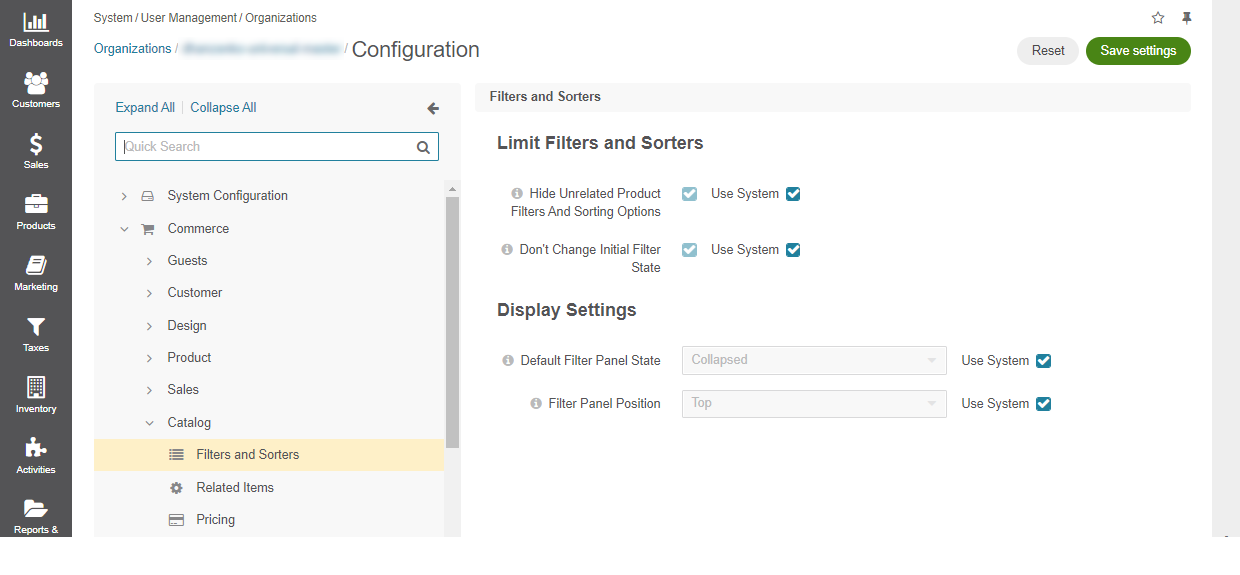
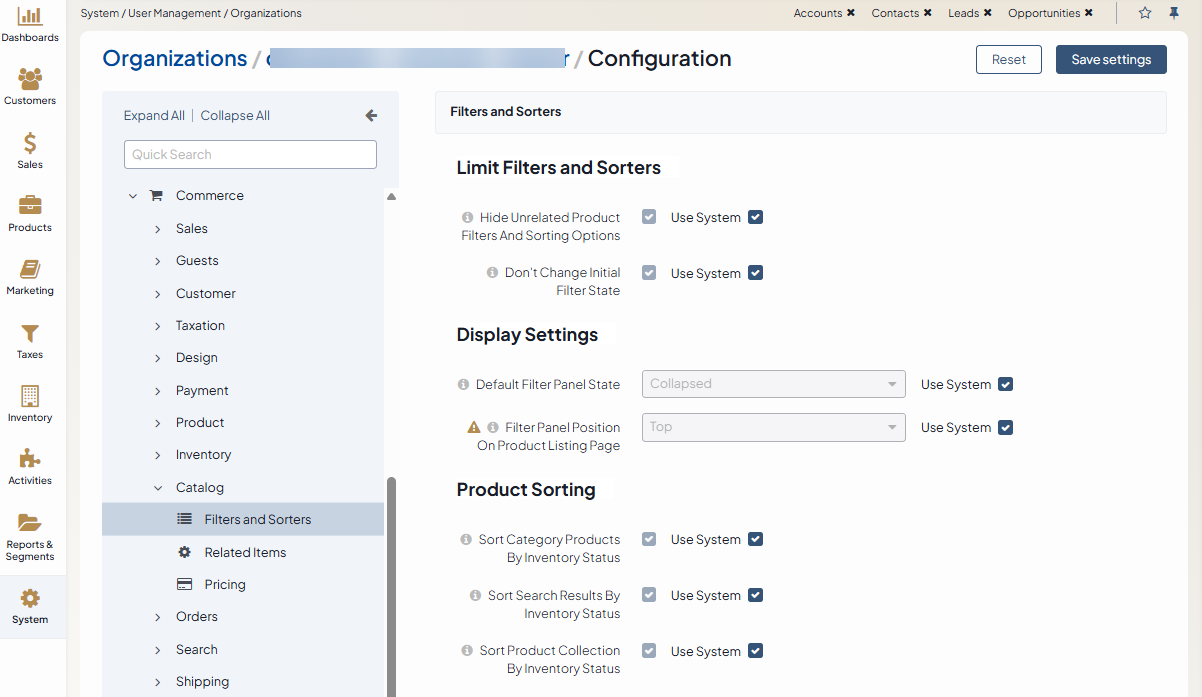
DOC-2393: Added user documentation to cover the Sort Products by Inventory Status feature (#41906)

diff --git a/user/back-office/system/user-management/organizations/org-configuration/commerce/catalog/organization-filters-sorters.rst b/user/back-office/system/user-management/organizations/org-configuration/commerce/catalog/organization-filters-sorters.rst
@@ -43,8 +43,39 @@ To configure filters and sorting options per organization:
 
    .. hint:: To specify how to display the multi-select filter options, refer to the :ref:`theme-related settings <configuration--commerce--design--theme>`.
 
+6. In the **Product Sorting** section, configure the options that enable you to override the default product sorting behavior in the storefront, which is typically based on a product sort order (if specified) and by relevance score.
 
-6. Click **Save Settings**.
+    .. note:: The product sorting feature is only available as of OroCommerce Enterprise version 6.1.2.
+
+    .. hint:: Before enabling the options, ensure to:
+
+        1. Define the options for the :ref:`inventory_status <products--product-attributes>` product attribute under the Products > Product Attributes back-office menu. Drag and drop statuses to arrange them by priority (e.g., *In Stock, Out Of Stock, Discontinued*). Products with higher-priority statuses will be displayed first. Please note that the inventory_status attribute is a system product attribute, so only a system administrator of the global organization can edit it.
+
+            .. image:: /user/img/system/config_commerce/catalog/inventory-status-attribute.png
+               :alt: The details page of the Inventory status product attribute
+
+        2. Check the :ref:`visibility of the inventory statuses <configuration--guide--commerce--configuration--inventory--allowed-statuses>` under System > Configuration > Commerce > Inventory > Allowed Statuses to ensure that products with the specified status can be visible in the storefront.
+
+            .. image:: /user/img/system/config_commerce/catalog/inventory-status-visibility-config.png
+               :alt: The config page of the Allowed Statuses commerce system menu
+
+* **Sort Category Products by Inventory Status** --- When enabled, the items on product listing (master catalog category) pages in the storefront will be sorted by their inventory status, as configured under the Products > Product Attributes back-office menu. Products with higher-priority statuses (e.g., *In Stock*) will appear first, followed by others in the defined order. Within the same inventory status group, products are further sorted by the sort order number assigned to them in the category.
+
+.. image:: /user/img/system/config_commerce/catalog/category-products-sorting.png
+   :alt: The master catalog category details page with the products with different inventory statuses and sort order, and the storefront page that reflects the enabled sorting behavior
+
+* **Sort Search Results by Inventory Status** --- When enabled, the items on the search results page in the storefront will be sorted by their inventory status, as configured under the Products > Product Attributes back-office menu. Products with higher-priority statuses (e.g., *In Stock*) will appear first, followed by others in the defined order.
+
+.. image:: /user/img/system/config_commerce/catalog/search-results-sorting.png
+   :alt: The storefront page that reflects the enabled sorting behavior, where the products with higher-priority status *In Stock* appear first
+
+* **Sort Product Collection by Inventory Status** --- When enabled, the items in product collections in the storefront will be sorted by their inventory status, as configured under the Products > Product Attributes back-office menu. Products with higher-priority statuses (e.g., *In Stock*) will appear first, followed by others in the defined order. Within the same inventory status group, products are further sorted by the sort order number assigned to them in the product collection.
+
+.. image:: /user/img/system/config_commerce/catalog/product-collection-sorting.png
+   :alt: The web catalog content node details page with the assigned product collection and the storefront page that reflects the enabled sorting behavior
+
+
+7. Click **Save Settings**.
 
 
 .. include:: /include/include-images.rst

diff --git a/user/back-office/system/websites/web-configuration/commerce/catalog/website-filters-sorters.rst b/user/back-office/system/websites/web-configuration/commerce/catalog/website-filters-sorters.rst
@@ -43,8 +43,39 @@ To configure filters and sorting options per website:
 
    .. hint:: To specify how to display the multi-select filter options, refer to the :ref:`theme-related settings <configuration--commerce--design--theme>`.
 
+6. In the **Product Sorting** section, configure the options that enable you to override the default product sorting behavior in the storefront, which is typically based on a product sort order (if specified) and by relevance score.
 
-6. Click **Save Settings**.
+    .. note:: The product sorting feature is only available as of OroCommerce Enterprise version 6.1.2.
+
+    .. hint:: Before enabling the options, ensure to:
+
+        1. Define the options for the :ref:`inventory_status <products--product-attributes>` product attribute under the Products > Product Attributes back-office menu. Drag and drop statuses to arrange them by priority (e.g., *In Stock, Out Of Stock, Discontinued*). Products with higher-priority statuses will be displayed first. Please note that the inventory_status attribute is a system product attribute, so only a system administrator of the global organization can edit it.
+
+            .. image:: /user/img/system/config_commerce/catalog/inventory-status-attribute.png
+               :alt: The details page of the Inventory status product attribute
+
+        2. Check the :ref:`visibility of the inventory statuses <configuration--guide--commerce--configuration--inventory--allowed-statuses>` under System > Configuration > Commerce > Inventory > Allowed Statuses to ensure that products with the specified status can be visible in the storefront.
+
+            .. image:: /user/img/system/config_commerce/catalog/inventory-status-visibility-config.png
+               :alt: The config page of the Allowed Statuses commerce system menu
+
+* **Sort Category Products by Inventory Status** --- When enabled, the items on product listing (master catalog category) pages in the storefront will be sorted by their inventory status, as configured under the Products > Product Attributes back-office menu. Products with higher-priority statuses (e.g., *In Stock*) will appear first, followed by others in the defined order. Within the same inventory status group, products are further sorted by the sort order number assigned to them in the category.
+
+.. image:: /user/img/system/config_commerce/catalog/category-products-sorting.png
+   :alt: The master catalog category details page with the products with different inventory statuses and sort order, and the storefront page that reflects the enabled sorting behavior
+
+* **Sort Search Results by Inventory Status** --- When enabled, the items on the search results page in the storefront will be sorted by their inventory status, as configured under the Products > Product Attributes back-office menu. Products with higher-priority statuses (e.g., *In Stock*) will appear first, followed by others in the defined order.
+
+.. image:: /user/img/system/config_commerce/catalog/search-results-sorting.png
+   :alt: The storefront page that reflects the enabled sorting behavior, where the products with higher-priority status *In Stock* appear first
+
+* **Sort Product Collection by Inventory Status** --- When enabled, the items in product collections in the storefront will be sorted by their inventory status, as configured under the Products > Product Attributes back-office menu. Products with higher-priority statuses (e.g., *In Stock*) will appear first, followed by others in the defined order. Within the same inventory status group, products are further sorted by the sort order number assigned to them in the product collection.
+
+.. image:: /user/img/system/config_commerce/catalog/product-collection-sorting.png
+   :alt: The web catalog content node details page with the assigned product collection and the storefront page that reflects the enabled sorting behavior
+
+
+7. Click **Save Settings**.
 
 
 .. include:: /include/include-images.rst

diff --git a/user/back-office/system/configuration/commerce/catalog/global-filters-sorters.rst b/user/back-office/system/configuration/commerce/catalog/global-filters-sorters.rst
@@ -46,8 +46,39 @@ To configure filters and sorting options globally:
 
    .. hint:: To specify how to display the multi-select filter options, refer to the :ref:`theme-related settings <configuration--commerce--design--theme>`.
 
+6. In the **Product Sorting** section, configure the options that enable you to override the default product sorting behavior in the storefront, which is typically based on a product sort order (if specified) and by relevance score.
 
-6. Click **Save Settings**.
+    .. note:: The product sorting feature is only available as of OroCommerce Enterprise version 6.1.2.
+
+    .. hint:: Before enabling the options, ensure to:
+
+        1. Define the options for the :ref:`inventory_status <products--product-attributes>` product attribute under the Products > Product Attributes back-office menu. Drag and drop statuses to arrange them by priority (e.g., *In Stock, Out Of Stock, Discontinued*). Products with higher-priority statuses will be displayed first. Please note that the inventory_status attribute is a system product attribute, so only a system administrator of the global organization can edit it.
+
+            .. image:: /user/img/system/config_commerce/catalog/inventory-status-attribute.png
+               :alt: The details page of the Inventory status product attribute
+
+        2. Check the :ref:`visibility of the inventory statuses <configuration--guide--commerce--configuration--inventory--allowed-statuses>` under System > Configuration > Commerce > Inventory > Allowed Statuses to ensure that products with the specified status can be visible in the storefront.
+
+            .. image:: /user/img/system/config_commerce/catalog/inventory-status-visibility-config.png
+               :alt: The config page of the Allowed Statuses commerce system menu
+
+* **Sort Category Products by Inventory Status** --- When enabled, the items on product listing (master catalog category) pages in the storefront will be sorted by their inventory status, as configured under the Products > Product Attributes back-office menu. Products with higher-priority statuses (e.g., *In Stock*) will appear first, followed by others in the defined order. Within the same inventory status group, products are further sorted by the sort order number assigned to them in the category.
+
+.. image:: /user/img/system/config_commerce/catalog/category-products-sorting.png
+   :alt: The master catalog category details page with the products with different inventory statuses and sort order, and the storefront page that reflects the enabled sorting behavior
+
+* **Sort Search Results by Inventory Status** --- When enabled, the items on the search results page in the storefront will be sorted by their inventory status, as configured under the Products > Product Attributes back-office menu. Products with higher-priority statuses (e.g., *In Stock*) will appear first, followed by others in the defined order.
+
+.. image:: /user/img/system/config_commerce/catalog/search-results-sorting.png
+   :alt: The storefront page that reflects the enabled sorting behavior, where the products with higher-priority status *In Stock* appear first
+
+* **Sort Product Collection by Inventory Status** --- When enabled, the items in product collections in the storefront will be sorted by their inventory status, as configured under the Products > Product Attributes back-office menu. Products with higher-priority statuses (e.g., *In Stock*) will appear first, followed by others in the defined order. Within the same inventory status group, products are further sorted by the sort order number assigned to them in the product collection.
+
+.. image:: /user/img/system/config_commerce/catalog/product-collection-sorting.png
+   :alt: The web catalog content node details page with the assigned product collection and the storefront page that reflects the enabled sorting behavior
+
+
+7. Click **Save Settings**.
 
 
 
